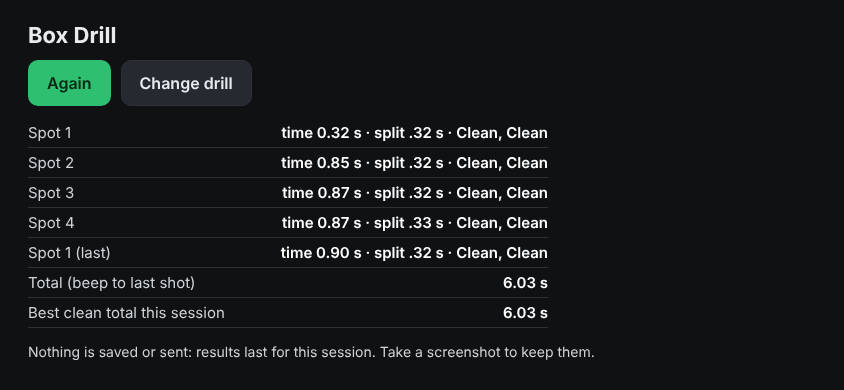
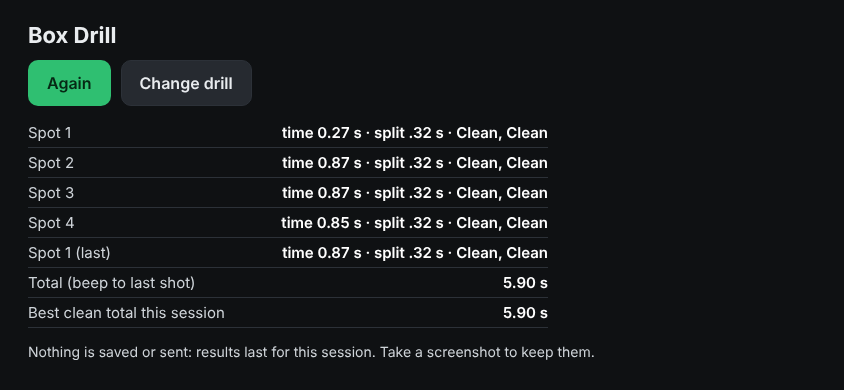
WQ-029: tests for the review fixes (spanning 180 alarm, split text, finishing cancel)
Claude-Session: https://claude.ai/code/session_013aLc3vB9FXw7qDu4fx63c5

diff --git a/tests/replay.js b/tests/replay.js
@@ -397,6 +397,45 @@ if (boxFile) {
     c.until(() => d().rep === 1, 7000); c.press(); c.press(); c.eng.touches(c.T, REST, W, H); c.until(() => d().reps.length === 1, 500);
     t('a shot before the beep is early: counted in the run and in position 1, not in the position\'s shots', d().early === 1 && d().reps[0].early === 1 && d().reps[0].shots.length === 2);
   }
+  // A 180 alarm that spans cue 1 (D-107): position 1 and position 2 are marked, position 3 (after the alarm cleared) is not;
+  // the run counts the one episode once.
+  {
+    const c = mk(3), d = c.d, eng = c.eng;
+    c.run(100); eng.setDownrange(c.T); c.run(100);
+    for (let n = 0; eng.state.dev180 < 95 && n < 400; n++) c.step(-120);
+    eng.touches(c.T, REST, W, H);
+    c.until(() => d().rep === 1, 7000);
+    c.press(); c.press(); eng.touches(c.T, REST, W, H);
+    t('cue 1 with the 180 alarm still sounding: position 2 opens already marked (cur.alarms 1), the run still counts 1',
+      c.until(() => d().reps.length === 1, 1000) && eng.state.alarmActive && d().rep === 2 && d().cur.alarms === 1 && d().alarms === 1);
+    for (let n = 0; eng.state.dev180 > 30 && n < 600; n++) c.step(120);        // back downrange with the finger on the frame: the alarm clears
+    c.run(200);
+    t(`the alarm clears once back downrange (dev ${eng.state.dev180.toFixed(0)} deg)`, !eng.state.alarmActive);
+    c.press(); c.press(); eng.touches(c.T, REST, W, H); c.until(() => d().reps.length === 2, 1000);
+    c.run(500); c.press(); c.press(); eng.touches(c.T, REST, W, H); c.until(() => d().reps.length === 3, 1000);
+    const rp = d().reps;
+    t(`spanning alarm: positions 1 and 2 withAlarm, position 3 not; the run counts one alarm, one alarmStart (${rp.map(x => x.alarms)})`,
+      rp.length === 3 && rp[0].withAlarm && rp[1].withAlarm && !rp[2].withAlarm && d().alarms === 1 && c.of('alarmStart').length === 1);
+  }
+  // A third shot at position 5 before the finger returns joins the position and the total runs to that third shot.
+  {
+    const c = mk(21), d = c.d; c.eng.touches(10, REST, W, H); c.until(() => d().rep === 1, 6000);
+    for (let n = 1; n <= 4; n++) { c.press(); c.press(); c.eng.touches(c.T, REST, W, H); c.until(() => d().reps.length === n, 1000); c.run(300); }
+    c.press(); c.press(); c.press(); c.eng.touches(c.T, REST, W, H); c.until(() => c.of('drillEnd').length === 1, 1000);
+    const run = c.eng.state.drillRuns[0], sh = c.of('shot').map(e => e.t), beep = c.of('drillBeep')[0].t;
+    t(`third shot at position 5: 11 shots, position 5 has 3, total = shot 11 minus the beep (${run && run.total}), not shot 10`,
+      !!run && sh.length === 11 && run.reps[4].shots.length === 3 && Math.abs(run.total - (sh[10] - beep)) < 0.01 && run.total > sh[9] - beep + 100);
+  }
+  // A cancel in finishing: two shots fired at position 3, finger not yet back, then a pause.
+  {
+    const c = mk(23), d = c.d; c.eng.touches(10, REST, W, H); c.until(() => d().rep === 1, 6000);
+    for (let n = 1; n <= 2; n++) { c.press(); c.press(); c.eng.touches(c.T, REST, W, H); c.until(() => d().reps.length === n, 1000); c.run(300); }
+    c.eng.touches(c.T, [], W, H); c.run(100); c.press(); c.press();
+    t('position 3 finishing (two shots, finger off the frame), two positions done', d().rep === 3 && d().phase === 'finishing' && d().reps.length === 2 && d().cur.shots.length === 2);
+    c.eng.setPaused(true, c.T + 1);
+    t('pausing in finishing: one drillCancel, standby at rep 0, positions and current position lost, no cue after the pause',
+      c.of('drillCancel').length === 1 && d().phase === 'standby' && d().rep === 0 && d().reps.length === 0 && d().cur === null && d().cueDueAt === null && c.of('drillCue').length === 2 && c.of('drillEnd').length === 0);
+  }
 }
 
 for (const [ua, list] of Object.entries(byDevice)) {

diff --git a/tests/smoke.js b/tests/smoke.js
@@ -1363,7 +1363,7 @@ const check = (name, cond, state) => {
     const fr = (k, pred) => pick(lo.ev, k, pred);
     const beepN = fr('beep').n, cueN = k => fr('cue', e => e.rep === k).n, shotN = (rp, i) => fr('shot', e => e.rep === rp && e.i === i).n;
     const startN = rp => rp === 1 ? beepN : cueN(rp - 1);
-    const parse = v => { const m = /^time (\d+\.\d\d) s · (?:split (\d*\.\d\d) s|splits ((?:\d*\.\d\d)(?: · \d*\.\d\d)+)) · (.*)$/.exec(v || ''); return m && { time: +m[1], splits: (m[2] ? [m[2]] : m[3].split(' · ')).map(Number), grades: m[4] }; };
+    const parse = v => { const m = /^time (\d+\.\d\d) s · (?:split (\d*\.\d\d) s|splits ((?:\d*\.\d\d)(?: · \d*\.\d\d)+) s) · (.*)$/.exec(v || ''); return m && { time: +m[1], splits: (m[2] ? [m[2]] : m[3].replace(/ s$/, '').split(' · ')).map(Number), grades: m[4] }; };
     const nShots = { 1: 2, 2: 3, 3: 2, 4: 2, 5: 2 };
     for (let rp = 1; rp <= 5; rp++) {
       const label = rp === 5 ? 'Spot 1 (last)' : `Spot ${rp}`, p = parse(rowOf(label));
@@ -1372,7 +1372,12 @@ const check = (name, cond, state) => {
         !!p && Math.abs(p.time - expT) <= 0.04 && p.splits.length === nShots[rp] - 1 && p.splits.every((x, i) => Math.abs(x - expS[i]) <= 0.04), [rowOf(label), expT, expS]);
     }
     check('WQ-029: spot 2 lists three grades; spot 3 (one-shot return) two; a single split is written "split .xx s", two splits "splits .xx · .xx"',
-      /Clean, Clean, Clean$/.test(rowOf('Spot 2')) && /^time \d+\.\d\d s · splits \d*\.\d\d · \d*\.\d\d · /.test(rowOf('Spot 2')) && /^time \d+\.\d\d s · split \d*\.\d\d s · Clean, Clean$/.test(rowOf('Spot 3')), rows);
+      /Clean, Clean, Clean$/.test(rowOf('Spot 2')) && /^time \d+\.\d\d s · splits \d*\.\d\d · \d*\.\d\d s · /.test(rowOf('Spot 2')) && /^time \d+\.\d\d s · split \d*\.\d\d s · Clean, Clean$/.test(rowOf('Spot 3')), rows);
+    check('WQ-029: a split under 1 s drops the leading zero (".32", never "0.32") and a split of 1 s or more reads 1.xx: spot 1 "split .xx s", spot 2 "splits .xx · .xx s", spot 3 (1.2 s hold) "split 1.xx s"',
+      /^time \d+\.\d\d s · split \.\d\d s · Clean, Clean$/.test(rowOf('Spot 1')) && /^time \d+\.\d\d s · splits \.\d\d · \.\d\d s · /.test(rowOf('Spot 2')) &&
+      /^time \d+\.\d\d s · split 1\.\d\d s · Clean, Clean$/.test(rowOf('Spot 3')), rows);
+    check('WQ-029: the status texts are rendered from the def: "shot 1 of 2" / "fire 2 or more" appear with the def\'s shotsPerRep',
+      await bp.evaluate(() => TDT.DRILL_DEFS.box.shotsPerRep) === 2 && lines1.some(x => /^Spot 2 · shot 1 of 2$/.test(x)) && lines1.some(x => /^Move to spot 2 · fire 2 or more$/.test(x)), lines1);
     check('WQ-029: spot 4 ends with "alarm" and lists alarm for both shots; spots 1, 2, 3 and 1 (last) carry no alarm mark and are graded',
       /alarm, alarm · alarm$/.test(rowOf('Spot 4')) && ['Spot 1', 'Spot 2', 'Spot 3', 'Spot 1 (last)'].every(k => !/alarm/.test(rowOf(k)) && /(Clean|Moved|Jerked)/.test(rowOf(k))), rows);
     const lastN = shotN(5, 2);

diff --git a/tests/expectations.js b/tests/expectations.js
@@ -110,6 +110,7 @@ module.exports = {
       ['avgReaction / bestReaction = mean / min of the per-rep reactions from the events',
         !!run && okRep && near(run.avgReaction, cleanReact.reduce((a, b) => a + b, 0) / 5) && near(run.bestReaction, Math.min(...cleanReact))],
       ['run-level early 0, alarms 0, withAlarm false', !!run && run.early === 0 && run.alarms === 0 && run.withAlarm === false],
+      ['Low Ready reps carry reaction / split and no Box fields (no time, no splits, no startT)', !!run && run.reps.every(p => !('time' in p) && !('splits' in p) && !('startT' in p) && 'reaction' in p && 'split' in p)],
     ];
   },
   // WQ-029: Box Drill, five positions (adaptive synthetic recording, see make-synthetic.js). Position 2 fires three shots (the
@@ -152,6 +153,7 @@ module.exports = {
         !!run && run.reps.map(p => p.shots.length).join() === '2,3,2,2,2' && run.reps.every(p => p.early === 0 && p.alarms === 0 && p.withAlarm === false)],
       ['total = last shot of position 5 - beep (not the end event)', !!run && okPos && near(run.total, lastShot - B[0].t) && near(run.endT, endT) && near(run.beepT, B[0].t) && run.total < endT - B[0].t - 10],
       ['run-level early 0, alarms 0, withAlarm false', !!run && run.early === 0 && run.alarms === 0 && run.withAlarm === false],
+      ['Box positions carry time / splits and no Low Ready fields (no reaction, no split)', !!run && run.reps.every(p => !('reaction' in p) && !('split' in p) && 'time' in p && Array.isArray(p.splits)) && !('avgReaction' in run)],
     ];
   },
   'axis-up': r => [
